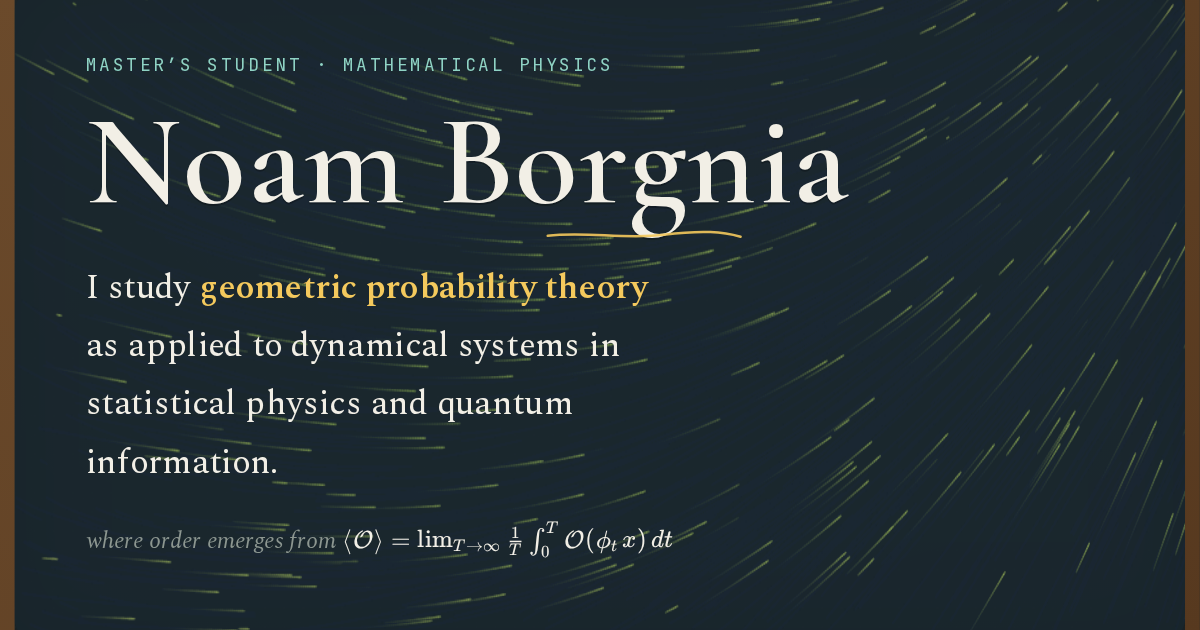
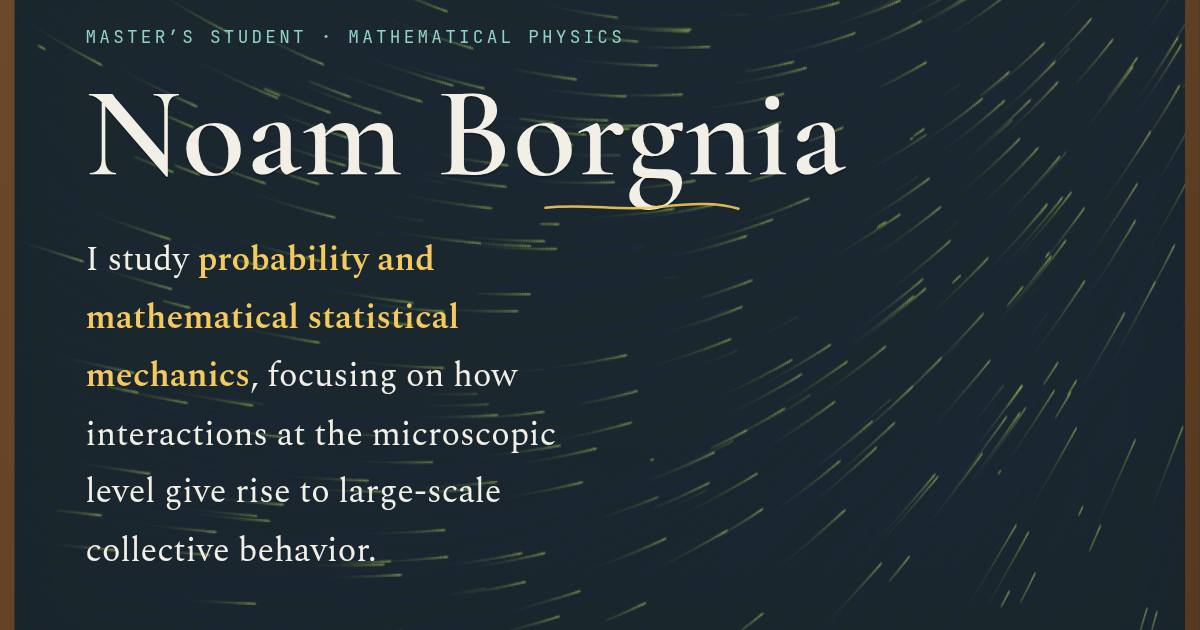
Replace sample content with empty site structure

diff --git a/README.md b/README.md
@@ -8,7 +8,7 @@ Chalkboard/notebook aesthetic, built with [Astro](https://astro.build) +
 
 A working chalkboard. Four pillars:
 
-- **Research** — geometric probability & dynamical systems
+- **Research** — probability and mathematical statistical mechanics
 - **Code & Simulation** — numerical experiments and visualizations
 - **Writing** — expository notes and essays
 - **Teaching** — courses and materials
